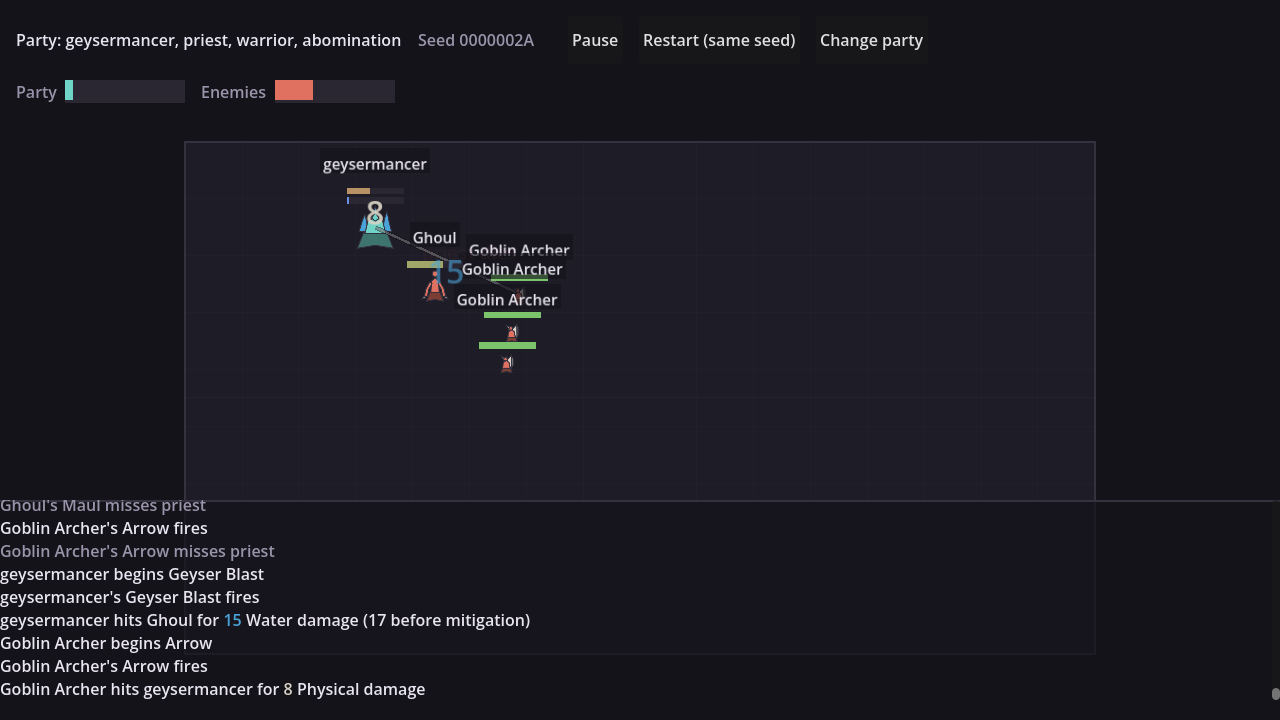
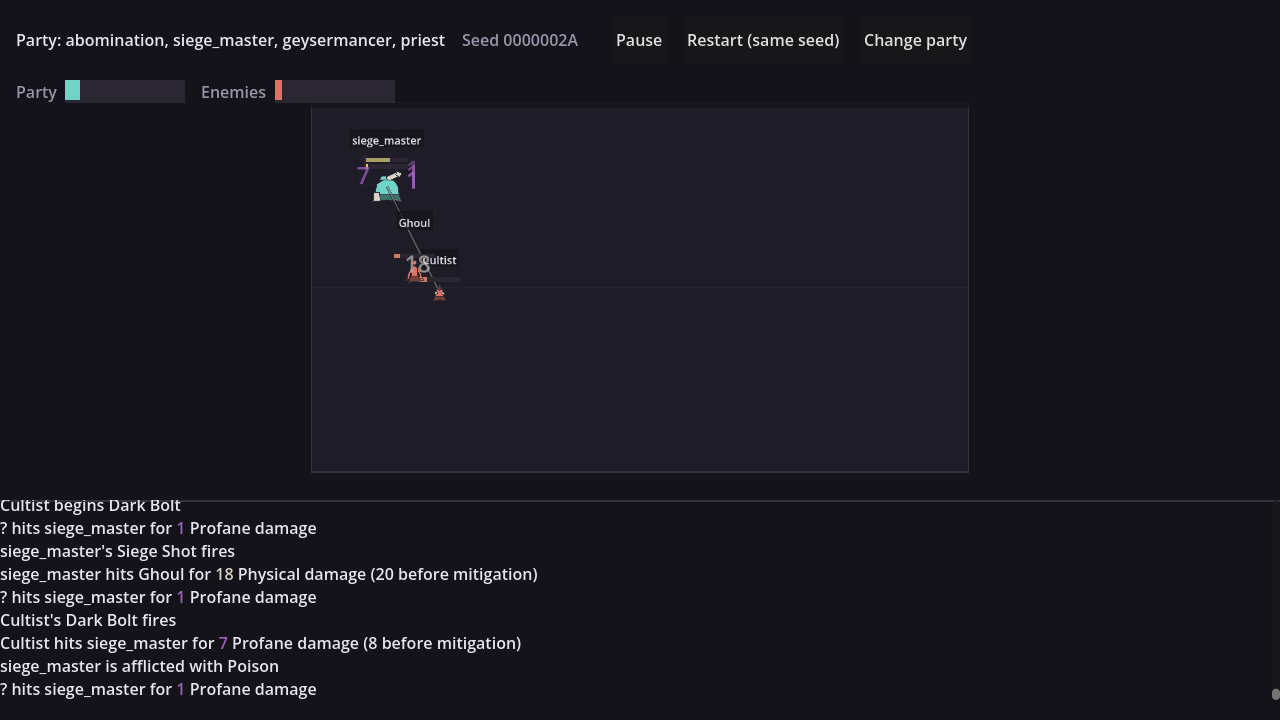
Issue 33 for pike, and fix the class names my own tools were printing
Regenerated the preview sheet off current trunk and read it, which surfaced two
things that look alike and are not.

The real one is pike's: four of nine visible log lines read "? hits priest for 1
Profane damage". Confirmed the cause rather than guessing. CombatLogView falls
back to "?" when a source unit is null, and CombatSim emits status and hazard
damage with source_id = -1 deliberately, because a poison tick has no source and
attributing it to a possibly-dead cultist would be the worse lie. Neither side is
wrong; the formatter has one sentence shape and this event does not fit it.
Asked for a sourceless sentence, for hazard and poison to stay distinguishable
since they tell the player different things, and for the shape rather than the
instance, MISS included.

The other was mine. The same screenshot shows "siege_master" beside "Ghoul", and
I was about to file that too. PartySelect already passes cls.display_name
correctly; four of my own tools passed String(class_id) instead, so the raw ids
were an artifact of the instrument, displayed in a sheet whose whole purpose is
showing what the game looks like. Fixed in ContactSheet and PlaytestLog, the two
whose output a person reads. SampleFights prints party ids by design and is left
alone.

That is the third time tonight a UI defect I inferred from a picture was not
where I thought. Flagged the overlapping unit labels in the issue explicitly as
unverified and pike's call to dismiss, rather than filing it as fact.
[…]

diff --git a/Issues/issue-33-the-log-says-question-mark-hits-you.md b/Issues/issue-33-the-log-says-question-mark-hits-you.md
@@ -1,0 +1,81 @@
+# Issue 33: the log says "? hits priest for 1 Profane damage"
+
+**Assigned to: pike.** Small, and user-facing copy, which is why it is written up
+rather than mentioned in passing.
+
+## What it looks like
+
+From `Tools/preview/fight_03.png`, regenerated off the current trunk. Four of the
+nine visible log lines are this:
+
+```
+? hits priest for 1 Profane damage
+? hits geysermancer for 1 Profane damage
+```
+
+A literal question mark, as a character's name, in the running commentary of the
+fight. It is the first thing the eye lands on in that panel, and it appears
+roughly every tick that anything is poisoned or standing in a hazard, so in a
+fight with a cultist in it this is a large fraction of the whole log.
+
+## Why it happens, confirmed rather than guessed
+
+`Scripts/UI/CombatLogView.gd:80` does the right thing with what it is given:
+
+```gdscript
+var source_name := source.display_name if source != null else "?"
+```
+
+The simulation is also right. `CombatSim.gd:421` emits status damage with
+`source_id = -1` **on purpose**, because a poison tick genuinely has no source —
+the cultist that applied it may be dead, and attributing the damage to them
+would be a worse lie than the question mark. Hazard damage a few lines later
+does the same, for the same good reason.
+
+So neither side is broken. **The formatter has one sentence shape and this event
+does not fit it.** "X hits Y" needs an X, and there isn't one.
+
+## What to do
+
+Give sourceless damage its own sentence. The event carries `e.status` and
+`e.damage_type`, so the view has everything it needs to say what actually
+happened:
+
+```
+priest suffers 1 Poison damage
+```
+
+Wording is yours, and it is user-facing copy, so the house rules apply: **no
+emoji, no em-dashes.** Two things worth getting right:
+
+- **A hazard tick and a poison tick should not read identically.** They are
+  different information — one means "you are standing somewhere bad and could
+  move", the other means "you are afflicted and moving will not help". The
+  player learns a real thing from telling them apart.
+- **Check `MISS` and any other line built from `source_name`.** The same `-1`
+  can reach them; the question mark just shows up most often on DAMAGE. Fix the
+  shape, not only the instance. That distinction has bitten this project twice
+  tonight, both times mine.
+
+## Do this before or after issue 29, whichever suits
+
+It touches the same file and issue 29 is the bigger job. If you are mid-way
+through the layout work, fold this in. If it is easier standalone first, that is
+fine too. It is small either way.
+
+## Acceptance criteria
+
+1. **No log line in any fight renders a `?` as a name.** A poisoned party against
+   the cultist is the case that exercises it.
+2. Poison and hazard damage are distinguishable from each other in the log.
+3. A screenshot showing the new lines, since this is a legibility fix and the
+   claim should be checkable the way you have been checking the others.
+
+## While you are in there, ignore this if you disagree
+
+The same screenshot shows overlapping unit labels when units bunch up — "priest"
+sits on top of "geysermancer" and neither is readable. **I am flagging it, not
+filing it**, because I have twice claimed a UI defect from a picture and been
+wrong once, and you have the measuring tools for this and I do not. If it is
+already handled by the label stagger from issue 26 and this was just a bad
+moment to freeze the frame, say so and I will drop it.
